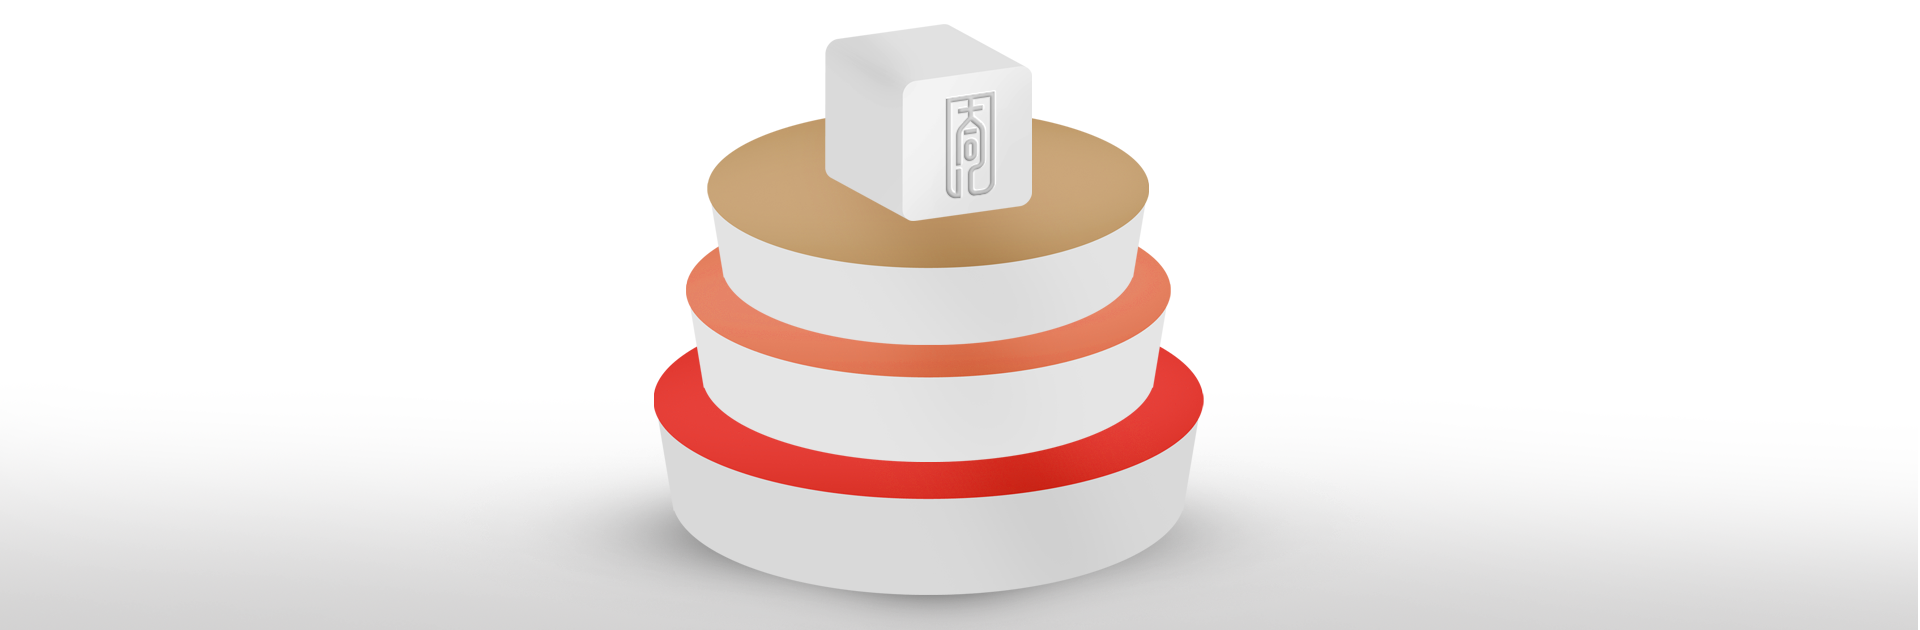
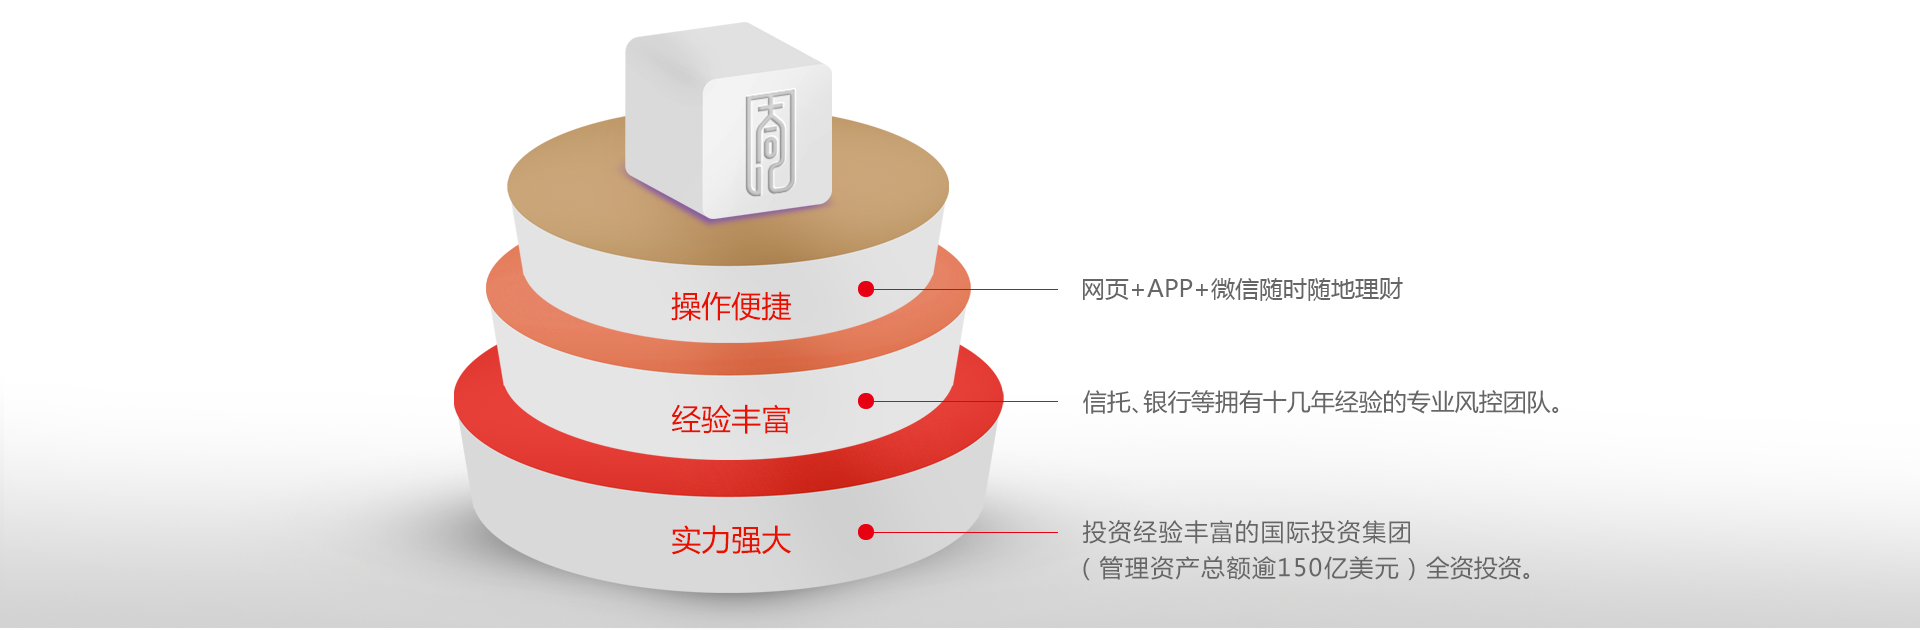
页面调整

Changed region(s): [[0.0, 0.0302, 1.0, 1.0], [0.4375, 0.8444, 0.5312, 0.9048]]

diff --git a/web/src/ccc/newAccount/js/main/risk.js b/web/src/ccc/newAccount/js/main/risk.js
@@ -1,5 +1,7 @@
 "use strict";
 var accountService = require('ccc/newAccount/js/main/service/account').accountService;
+
+var riskId='',rank='';
 var ractive = new Ractive({
     el: "#ractive-container",
     template: require('ccc/newAccount/partials/risk/risk.html'),
@@ -9,25 +11,25 @@ var ractive = new Ractive({
         result:false,
         list:'',
         timeLastUpdated:'',
-        id:'',
-        rank:'',
+        type:'',
     },
     init: function() {
         var self = this;
         accountService.getQuestion(function (res) {
             self.set("list",res.questions);
-            self.set("id",res.id);
+            riskId=res.id;
         });
         request('GET', '/api/v2/user/MYSELF/userinfo')
             .end()
             .then(function (r) {
+                console.log(r.body);
                 self.set("timeLastUpdated", moment(r.body.surveyFilling.timeLastUpdated).format('YYYY-MM-DD HH:mm:ss'));
-                self.set("rank",r.body.surveyFilling.rank);
+                rank=r.body.surveyScore.rank;
+                self.set('type',r.body.surveyScore.name);
             });
     },
     oncomplete:function(){
         var self = this;
-
         self.on('getScore',function(){
             var sum =0;
             var len = $('input:radio:checked').length;
@@ -39,15 +41,13 @@ var ractive = new Ractive({
                 var score = parseInt($(this).val());
                 sum+=score;
             });
-
-            var riskId=self.get('id');
             request.post('/api/v2/user/MYSELF/surveyFilling')
                 .query({
                     userId: CC.user.id,
                     surveyId: riskId,
                     fillingStatus:'FINISHED',
                     score:sum,
-                    rank:self.get('rank'),
+                    rank:rank,
                     content:''
                 })
                 .end()
@@ -58,6 +58,7 @@ var ractive = new Ractive({
                     }
                     console.log(res.error);
                     if (res.success) {
+                        console.log(res.data);
                         self.set('question',false);
                         self.set('result',true);
                         self.set('timeLastUpdated',moment(res.data.timeLastUpdated).format('YYYY-MM-DD HH:mm:ss'));
@@ -68,6 +69,11 @@ var ractive = new Ractive({
         });
 
     }
+});
+
+ractive.on('reEvaluation',function(){
+    this.set('question',true);
+    this.set('result',false);
 });
 
 ractive.on('submit',function() {

diff --git a/web/src/ccc/guide/views/index.html b/web/src/ccc/guide/views/index.html
@@ -65,9 +65,9 @@
         </div>
         <div class="step-box2">
             <div class="step-second">
-                <span class="step-tips1">操作便捷</span>
-                <span class="step-tips2">经验丰富</span>
-                <span class="step-tips3">实力强大</span>
+                <!--<span class="step-tips1">操作便捷</span>-->
+                <!--<span class="step-tips2">经验丰富</span>-->
+                <!--<span class="step-tips3">实力强大</span>-->
             </div>
         </div>
         <div class="step-box3">
@@ -97,8 +97,17 @@
                 <div class="step-title">如何投资太合汇？</div>
             </div>
         </div>
-        <a class="guide-btn" href="#">立即开启财富之旅</a>
+        <a class="guide-btn" onclick="ChooseLink()">立即开启财富之旅</a>
 
     </div>
     <script src="/ccc/safety/js/main/index.js"></script>
+    <script>
+        function ChooseLink(){
+            if(CC.user){
+                window.location.href="/invest";
+            }else{
+                window.location.href="/login";
+            }
+        }
+    </script>
 </dsBody>

diff --git a/web/src/ccc/newAccount/partials/risk/risk.html b/web/src/ccc/newAccount/partials/risk/risk.html
@@ -32,10 +32,10 @@
     <div class="result-box">
         <div class="header">
             <div class="type">
-                你的风险承受能力: <span>{{rank}}</span>
+                你的风险承受能力: <span>{{type}}</span>
             </div>
             <div class="btn">
-                <button>重新测评</button>
+                <button on-click="reEvaluation">重新测评</button>
             </div>
         </div>
         <div class="img-box">
